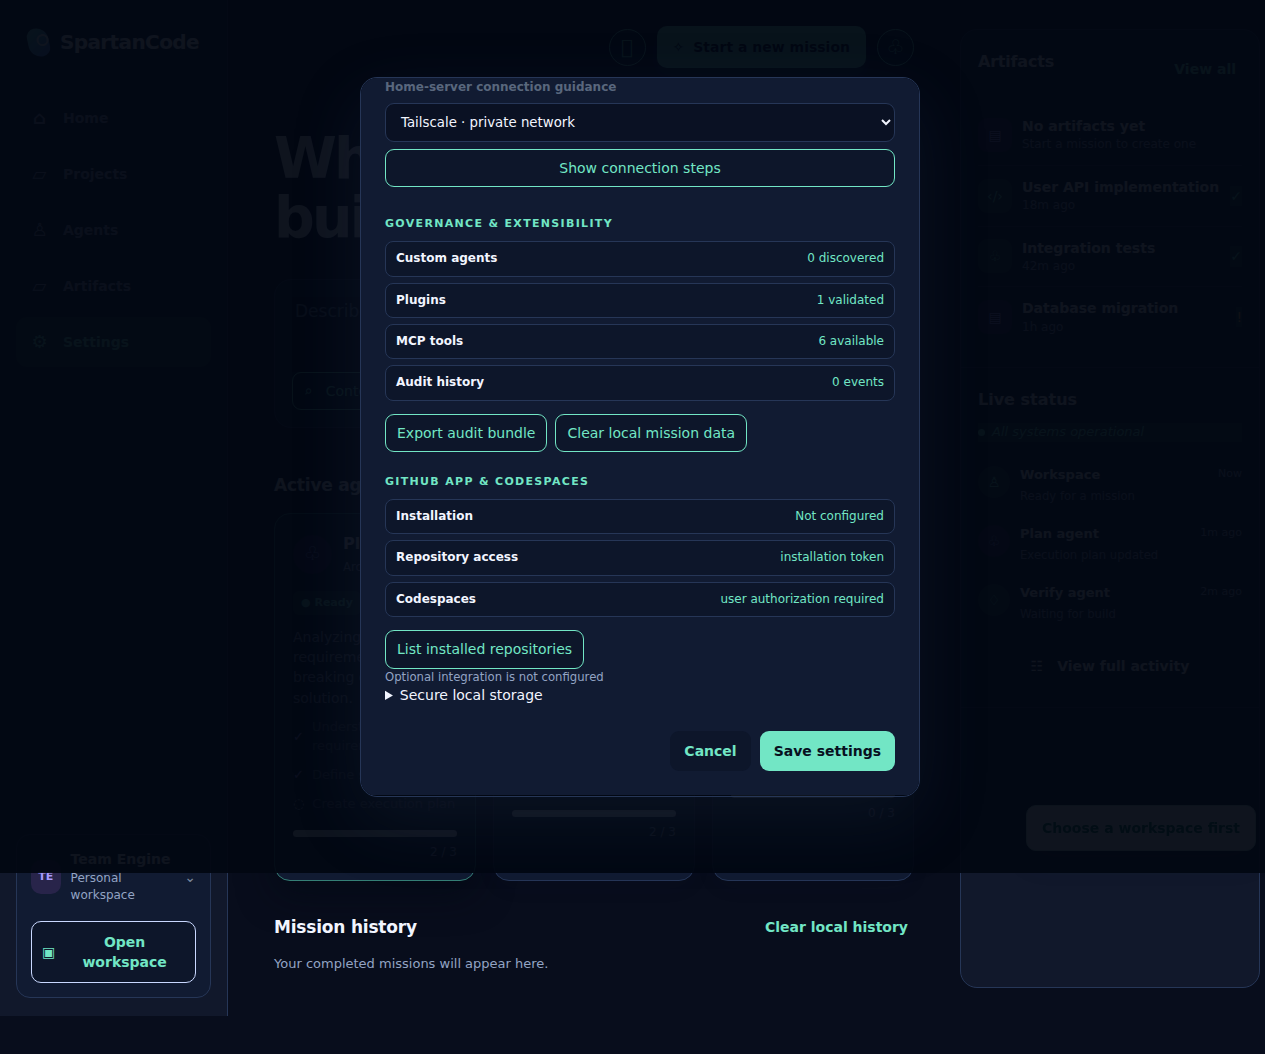
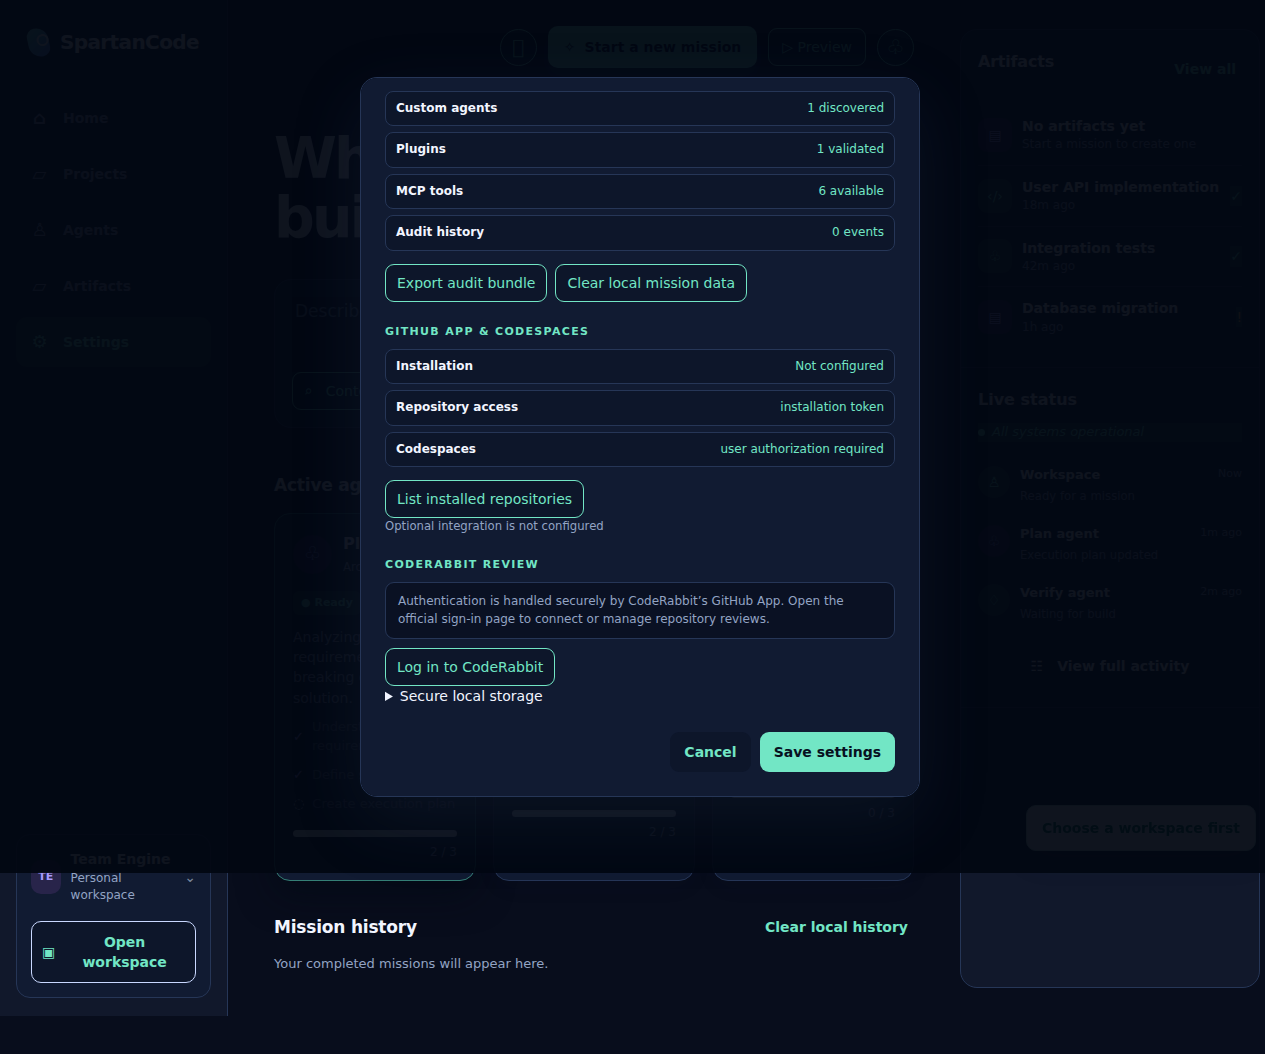
docs: map cross-platform automation capabilities

Changed region(s): [[0.3083, 0.0607, 0.7091, 0.6679], [0.6166, 0.6983, 0.7091, 0.7287], [0.5549, 0.6983, 0.5858, 0.7287]]

diff --git a/docs/AUTOMATION_CAPABILITIES.md b/docs/AUTOMATION_CAPABILITIES.md
@@ -1,0 +1,27 @@
+# Automation capability roadmap
+
+SpartanCode can grow into a cross-platform engineering operator, but each
+capability must be implemented as a typed adapter with a visible policy
+boundary, audit evidence, and a truthful unavailable state. The following
+capabilities are now part of the roadmap.
+
+| Capability                          | Planned integration                                                                                          | Boundary                                                                                    |
+| ----------------------------------- | ------------------------------------------------------------------------------------------------------------ | ------------------------------------------------------------------------------------------- |
+| Windows hardware and OS integration | PowerShell, Win32, services, network, and device adapters                                                    | Windows-only adapters; dangerous system changes remain policy-gated and audited             |
+| Autonomous execution                | Leo creates bounded plans and dispatches typed tools across the workspace, OS, and approved network services | Per-tool capability grants, timeouts, cancellation, and approval gates                      |
+| Dynamic personas and voice          | Persona profiles, configurable wake name, TTS voices, and STT providers                                      | Local-first audio where available; microphone and speaker access are explicit capabilities  |
+| Software and GUI automation         | Process management plus Windows UI Automation and optional PyAutoGUI adapter                                 | Foreground-window and screen-control actions are high-risk and require verification         |
+| Browser control                     | Playwright browser adapter for navigation, extraction, and web workflows                                     | Separate browser context, domain allowlist, download limits, and auditable actions          |
+| Proton and Tor                      | Optional privacy-network adapters for Tor routing and Proton services                                        | Never silently reroute traffic; show connection state and require user configuration        |
+| Continuous learning / RAG           | Encrypted local vector memory for preferences, context, and successful workflows                             | User-owned memory, inspect/export/delete controls, retention limits, and no secret indexing |
+
+These are capability adapters, not unrestricted “god mode.” The existing YOLO
+setting can bypass the interactive mission prompt only; it does not disable
+input validation, containment, network restrictions, audit logging, or typed
+capability checks.
+
+The built-in project-preview browser and current voice/runtime interfaces are
+the first foundations. The next implementation slices are the Playwright
+adapter, encrypted RAG memory, and Windows adapter contracts; platform-specific
+features remain unavailable rather than being presented as ready when their
+runtime is absent.

diff --git a/docs/ROADMAP_STATUS.md b/docs/ROADMAP_STATUS.md
@@ -14,6 +14,15 @@ behavior and a corresponding automated or documented verification path.
   Electron, renderer, and Android guidance; desktop Settings opens its official
   GitHub App login flow without storing CodeRabbit credentials.
 
+## Next capability expansion
+
+- Cross-platform automation capability roadmap documented for Windows OS and
+  hardware adapters, autonomous Leo execution, personas and voice, GUI
+  automation, Playwright browser control, Proton/Tor adapters, and encrypted
+  local RAG memory. Each slice must ship with typed capabilities, policy
+  boundaries, audit evidence, and truthful unavailable states; see
+  [AUTOMATION_CAPABILITIES.md](AUTOMATION_CAPABILITIES.md).
+
 - Desktop Electron shell with isolated preload IPC and workspace path/symlink
   boundaries.
 - Mission Plan/Build/Verify lifecycle, durable artifacts, approvals, audit

diff --git a/README.md b/README.md
@@ -22,6 +22,11 @@ in the desktop test gate. See [project previews](docs/PROJECT_PREVIEWS.md).
 CodeRabbit review configuration and GitHub App login are documented in
 [docs/CODERABBIT.md](docs/CODERABBIT.md).
 
+The broader automation roadmap—including Windows system adapters, autonomous
+execution, personas and voice, GUI/browser automation, privacy-network adapters,
+and encrypted RAG memory—is documented in
+[docs/AUTOMATION_CAPABILITIES.md](docs/AUTOMATION_CAPABILITIES.md).
+
 SpartanCode is local-first and standalone by design: Android users do not need
 the desktop app, a bridge, or a network connection to plan, queue, review, and
 track work. Optional remote connectivity is an extension—not a dependency.
